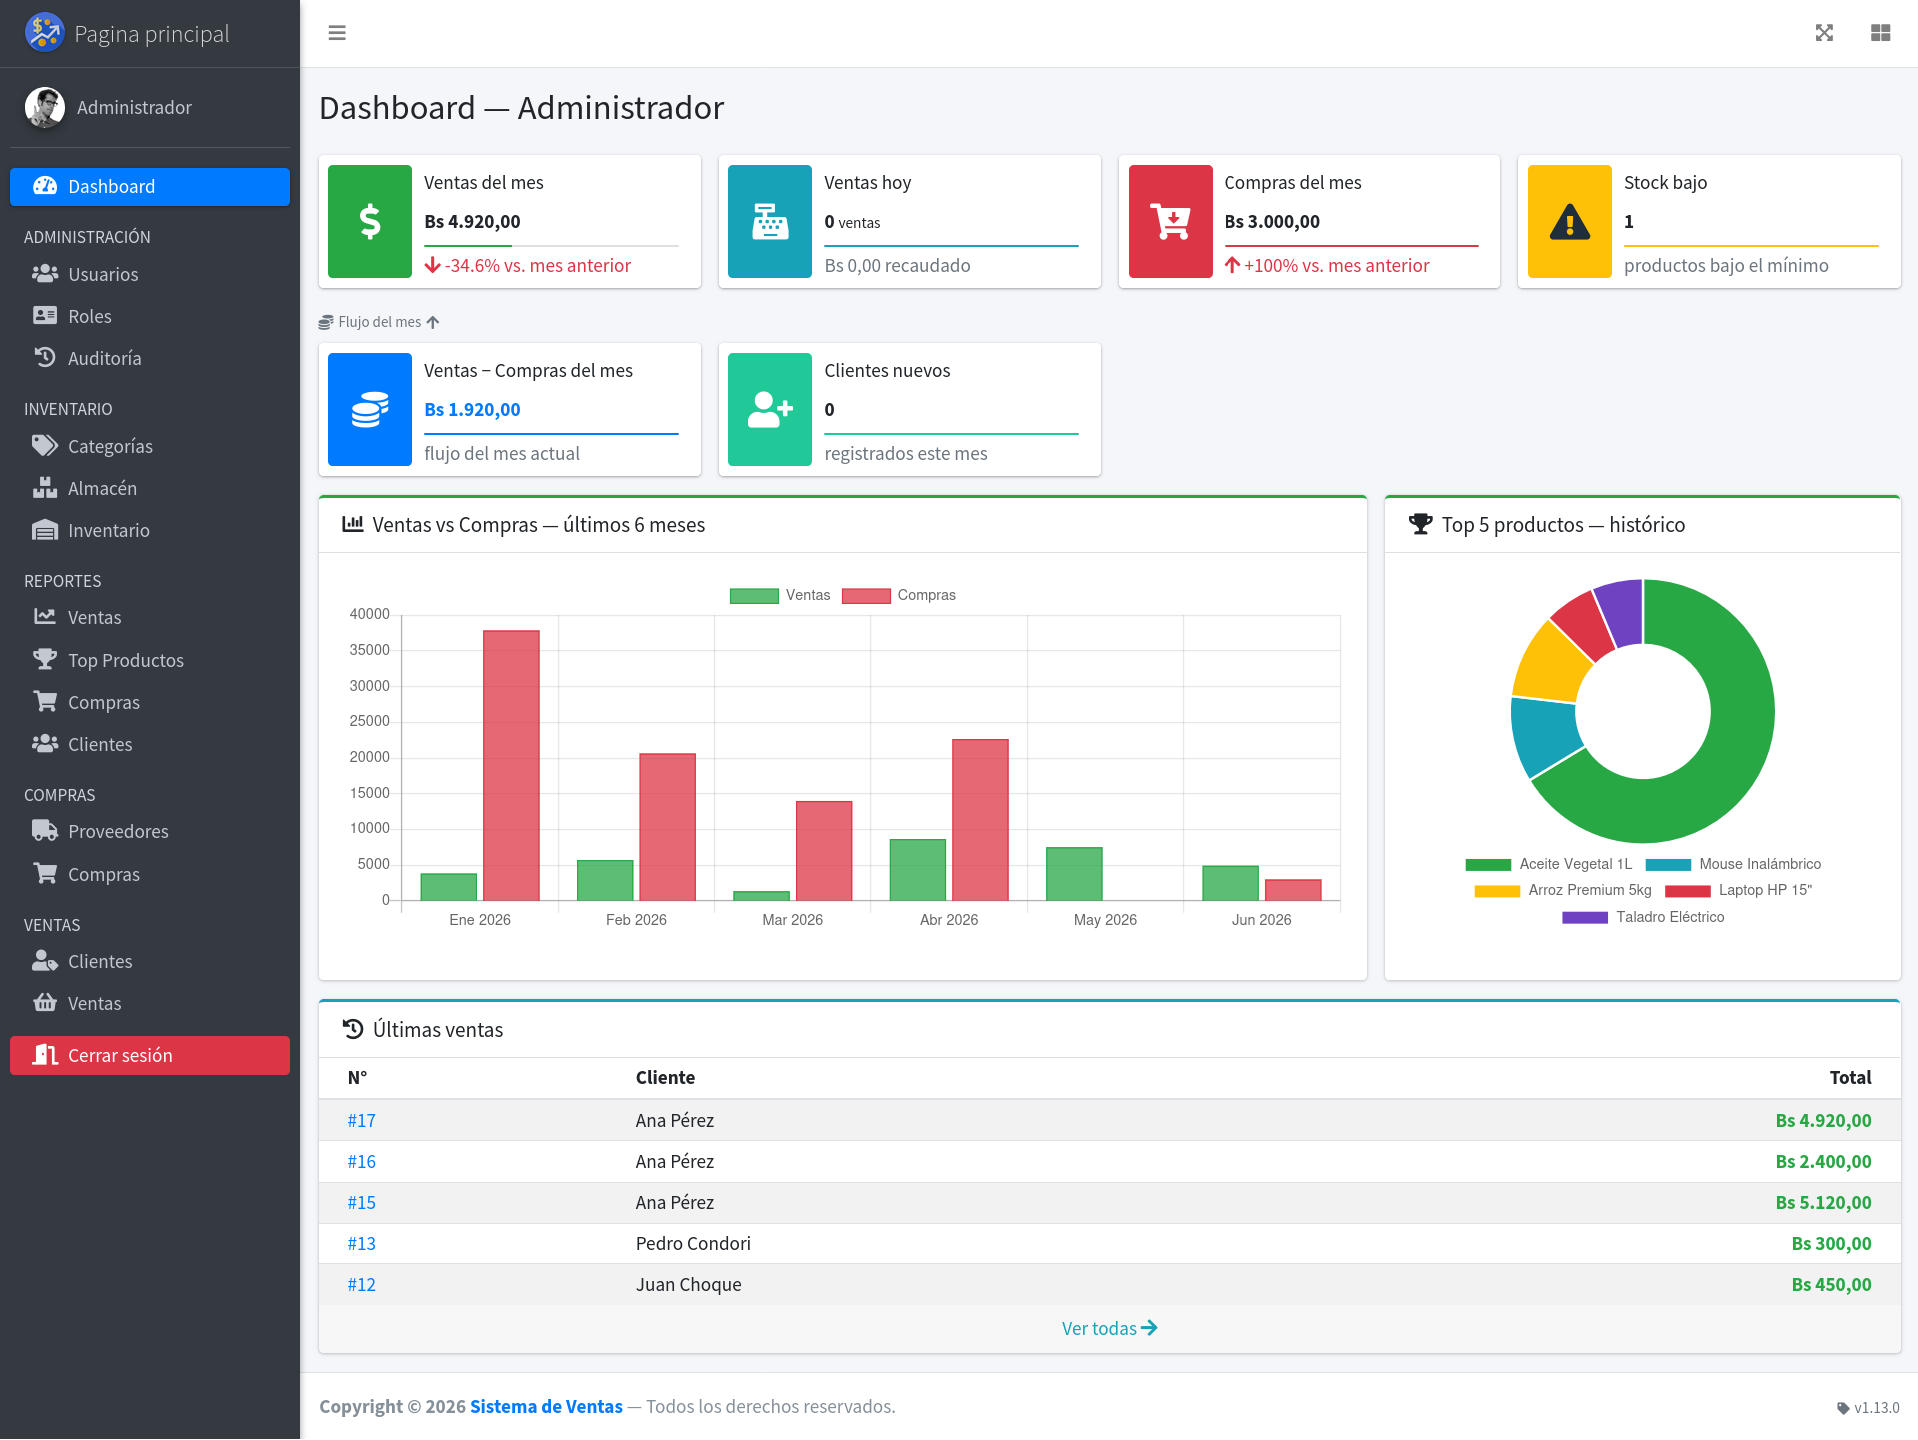
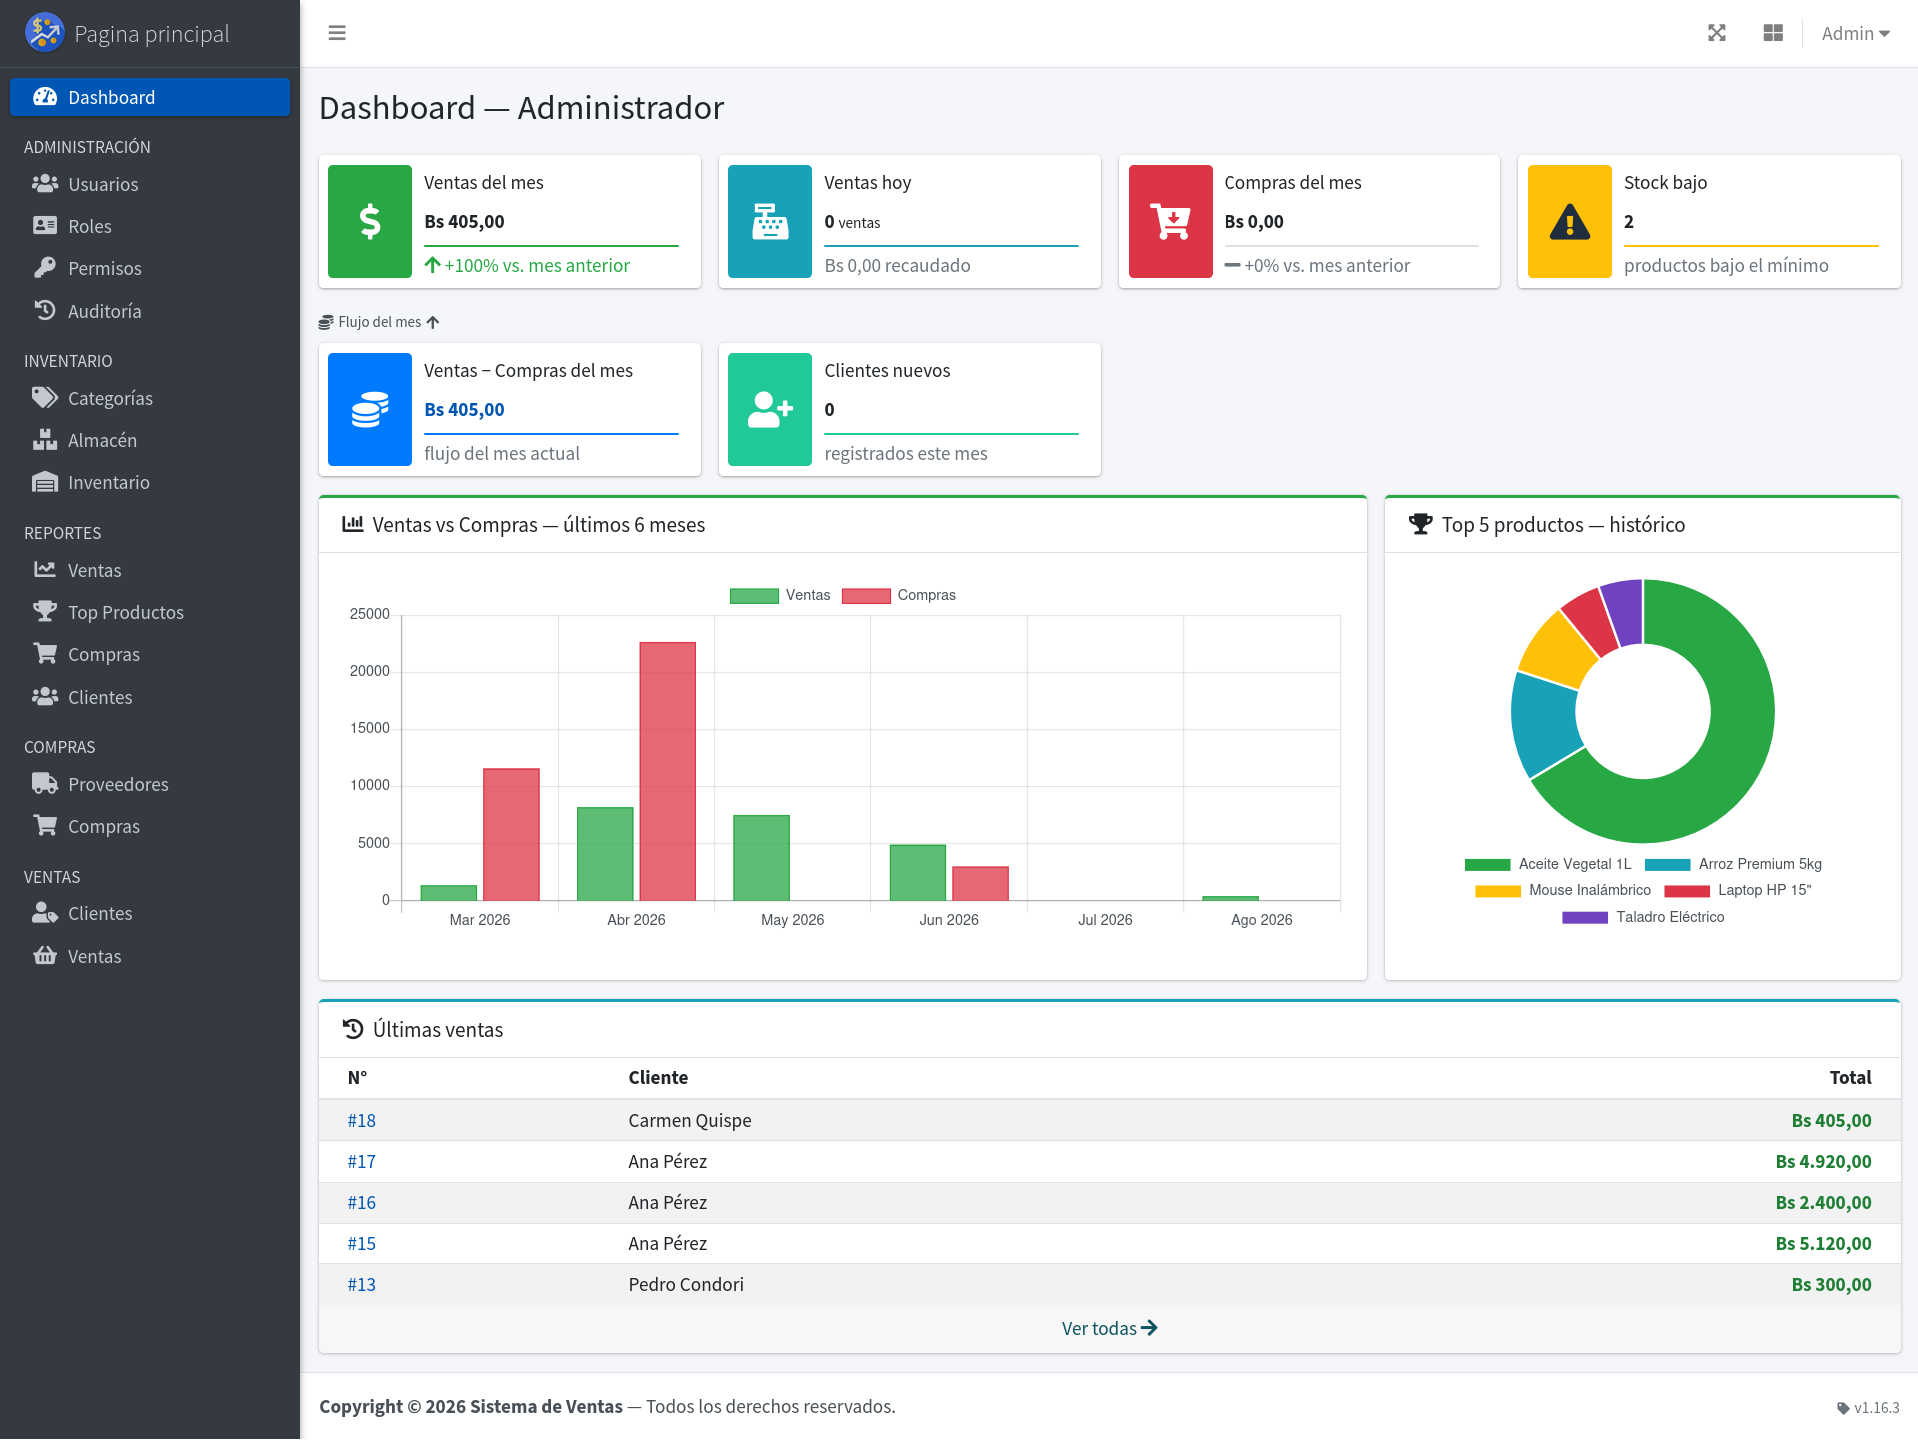
docs(readme): actualizar screenshot de dashboard y agregar galería de módulos

diff --git a/README.md b/README.md
@@ -17,7 +17,35 @@ Sistema web de gestión de ventas para pequeñas y medianas empresas. Cubre el c
 
 ---
 
+### Dashboard
+
+Panel principal con KPIs del mes, flujo de ventas vs. compras, top productos y últimas ventas.
+
 ![Dashboard](docs/screenshot-dashboard.png)
+
+---
+
+### Ventas
+
+Listado de ventas registradas, con acceso rápido al detalle, impresión de factura PDF y eliminación.
+
+![Ventas](docs/screenshot-pos.png)
+
+---
+
+### Almacén
+
+Catálogo de productos con stock, categoría y precio de venta; alertas visuales cuando el stock está bajo el mínimo.
+
+![Almacén](docs/screenshot-productos.png)
+
+---
+
+### Compras
+
+Historial de compras a proveedores, con actualización automática de stock al registrar cada una.
+
+![Compras](docs/screenshot-compras.png)
 
 ---
 
